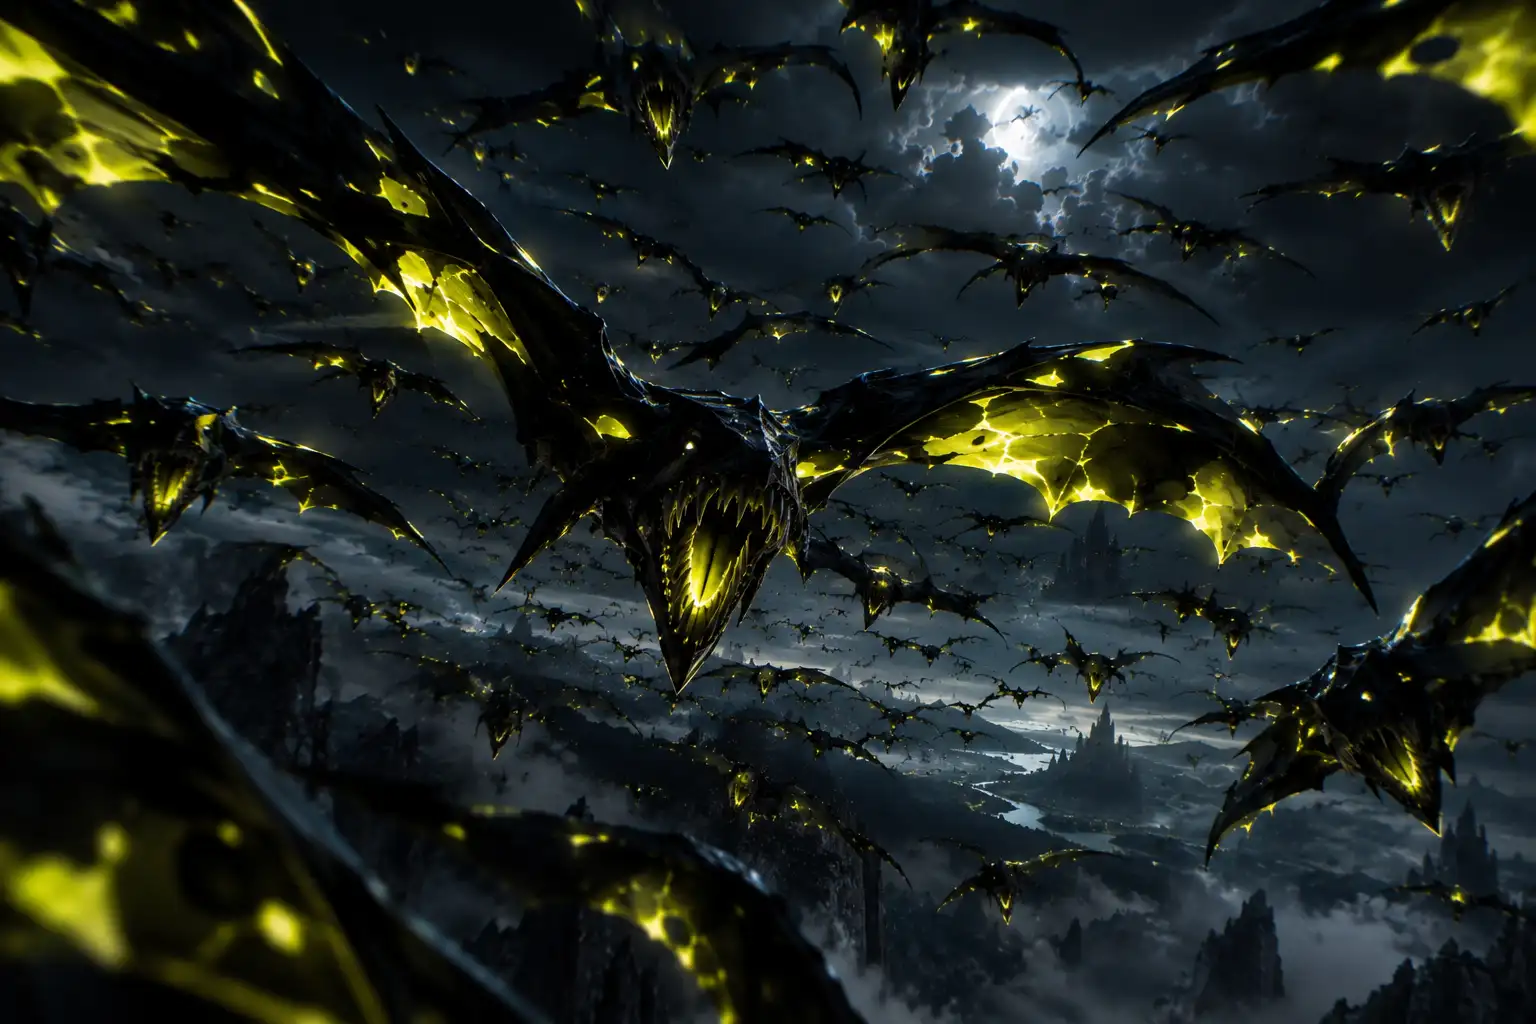
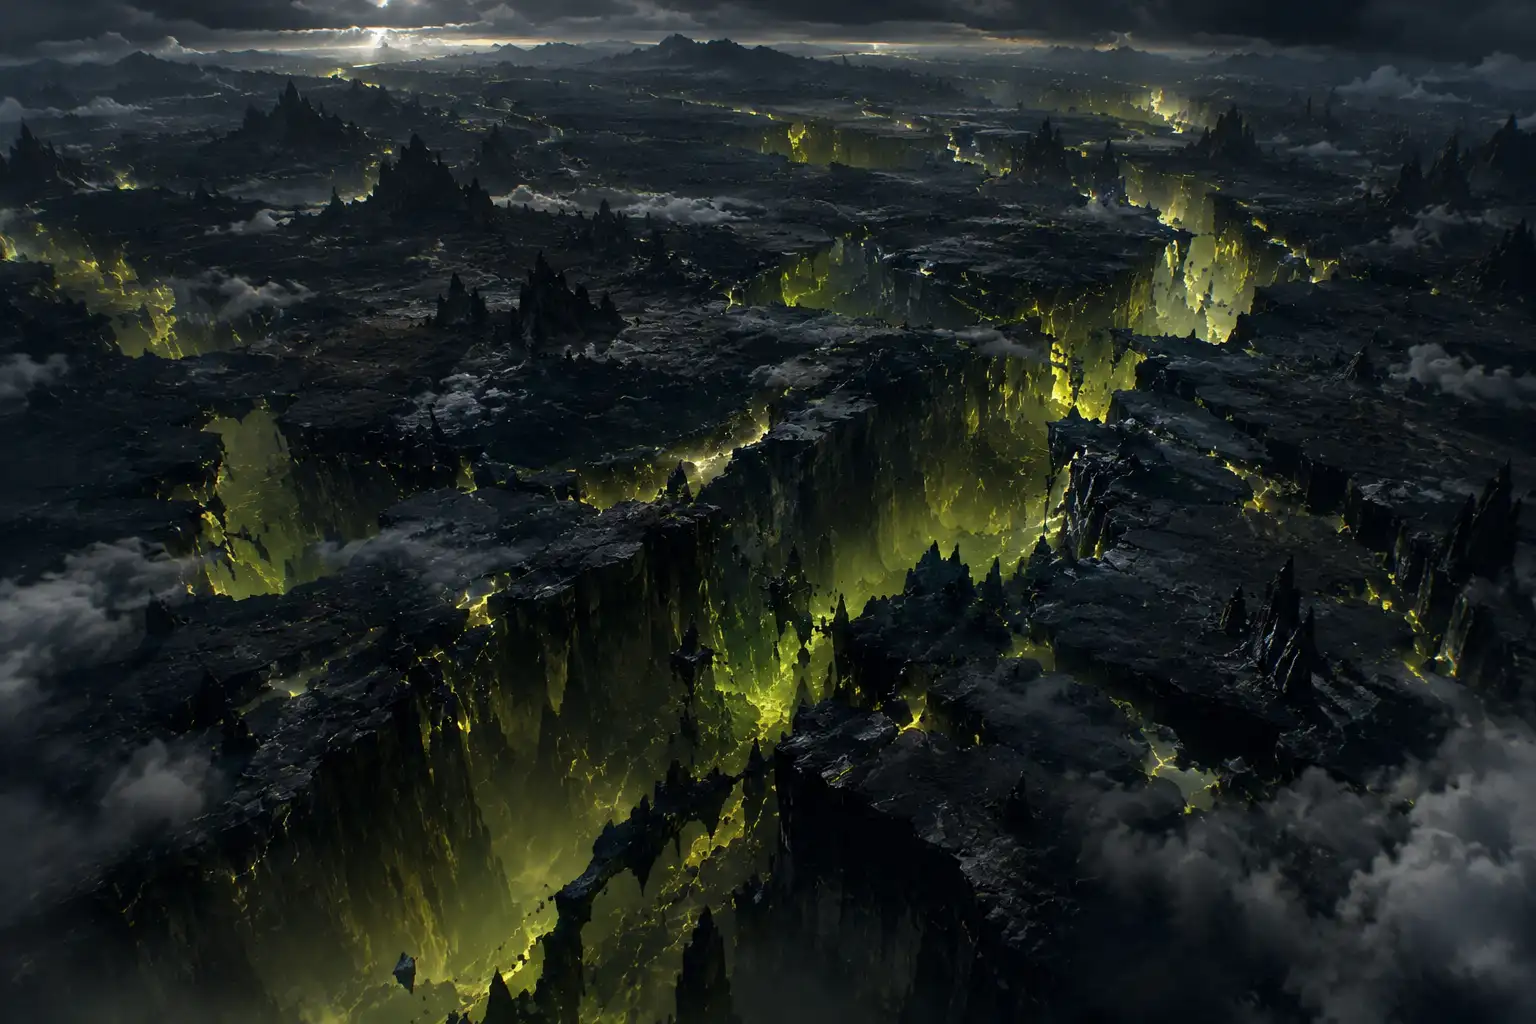
character

diff --git a/characters.html b/characters.html
@@ -240,12 +240,19 @@ const novazone = [
 
 /* DRAGON WORLD — "birthbiome" picks the biome: wind · volcano · river · ocean · ice */
 const dragonzone = [
-{images:["world1.webp","world2.webp","world3.webp","world4.webp","world5.webp","world6.webp","world7.webp","world8.webp","world9.webp","world10.webp"],name:"Dragon World",role:"Home of dragons",about:""},
-{images:["wind_dragon.webp","Wind_dragon2.webp","Wind_baby.webp"],name:"Wind Dragon",about:"",power:"splash wind to attack",birthbiome:"wind biome"},
-{images:["volcanic_dragon.webp","Volcanic_dragon2.webp"],name:"Volcanic Dragon",role:"Guardians of Dragon World",about:"",power:"splash lavafire to attack",birthbiome:"volcano"},
-{images:["River_dragon.webp","River_dragon2.webp","River_baby.webp"],name:"River or water Dragon",about:"",power:"splash water as jet stream",birthbiome:"river"},
-{images:["deepsea_dragon.webp","deepsea_dragon2.png"],name:"Deepsea dragons",role:"Guardians of Dragon world",about:"",power:"splash enormous amount of water to attack",birthbiome:"ocean"},
-{images:["ice_dragon.webp","ice_baby.webp"],name:"Ice Dragon",about:"",power:"splash ice to attack",birthbiome:"ice biome"}
+{images:["world1.webp","world2.webp","world3.webp","world4.webp","world5.webp","world6.webp","world7.webp","world8.webp","world9.webp","phenomenon1.webp","phenomenon2.webp","world10.webp"],name:"Dragon World",role:"Home of dragons",about:`Dragon World is a mysterious realm filled with diverse biomes, unique dragon species, and extraordinary powers. From frozen landscapes inhabited by ice dragons to oceans guarded by ancient dragons, every region holds its own wonders. With magical environments, powerful guardians, and countless dragons to discover, Dragon World is a place where nature and fantasy exist together.`},
+{images:["wind_dragon.webp","Wind_dragon2.webp","Wind_baby.webp"],name:"Wind Dragon",about:`Wind Dragons originate from the Wind Biome in Dragon World, a region associated with wind and the open skies. They possess the power to control wind, allowing them to generate powerful air currents and push back their enemies. Their unique abilities distinguish them from other dragon species.`,power:"splash wind to attack",birthbiome:"wind biome"},
+{images:["volcanic_dragon.webp","Volcanic_dragon2.webp"],name:"Volcanic Dragon",role:"Guardians of Dragon World",about:`Volcanic Dragons live inside a massive volcanoes in Dragon World. They possess immense power, making them one of the strongest dragon species in the world. They serve as ancient guardians of Dragon World, protecting it with their extraordinary strength.`,power:"splash lavafire to attack",birthbiome:"volcano"},
+{images:["River_dragon.webp","River_dragon2.webp","River_baby.webp"],name:"River or water Dragon",about:`River Dragons originate from the river biomes of Dragon World and possess the power to control water. They attack by releasing powerful jet streams of water, using continuous streams rather than sharp, concentrated shots. Their water-based abilities make them well suited to combat near rivers.`,power:"splash water as jet stream",birthbiome:"river"},
+{images:["deepsea_dragon.webp","deepsea_dragon2.png"],name:"Deepsea dragons",role:"Guardians of Dragon world",about:`Deep Sea Dragons live in the deepest parts of the oceans in Dragon World. They possess the power to control water and can unleash enormous splashes of water with tremendous force. They are ancient guardians of Dragon World, possessing immense power and wisdom.`,power:"splash enormous amount of water to attack",birthbiome:"ocean"},
+{images:["ice_dragon.webp","ice_baby.webp"],name:"Ice Dragon",about:`Ice Dragons originate from the ice biomes of Dragon World. They possess the power to control ice, allowing them to unleash powerful ice-based attacks. They are a unique dragon species adapted to the freezing environments of their homeland.`,power:"splash ice to attack",birthbiome:"ice biome"},
+{images:["land_dragon.webp","land_dragon2.webp","land_dragon3.webp","land_baby.webp"],name:"Land Dragon",about:`Land Dragons originate from the land regions of Dragon World. Unlike other dragon species, they do not possess pecial elemental powers. They help peoples by carrying them and providing convenient transportation between different places.`,birthbiome:"land regions"},
+{images:["voidex.webp","voidex_1.webp","voidex_2.webp","voidex_3.webp","voidex_4.webp"],name:"Voidex",role:"Dragon eaters",about:`Voidex are dangerous, bat-like creatures that originate from the underworld of Dragon World. They prey on dragons and attack other inhabitants, threatening the world's safety. They possess the ability to fly and use magical powers to overwhelm their enemies.`,power:"magical barriers",birthbiome:"Underworld"},
+{images:["windbangle.webp"],name:"Wind Bangle",role:"Magical artifact",about:`The Wind Bangle is a mysterious magical artifact that grants its wearer the power to control and manipulate wind. It allows the wearer to harness the force of wind for various purposes.`,power:"wind control"},
+{images:["desert_dragon.webp","desert_dragon2.webp","desert_baby.webp"],name:"Desert Dragon",about:`Desert Dragons originate from the desert biomes of Dragon World and possess the power to unleash a sand-like substance from their mouths. They attack by splashing this substance toward their targets. Their abilities reflect the sandy environments they inhabit.`,power:"sandlike substance",birthbiome:"desert"},
+{img:"icy.webp",name:"Icy",about:`Icy is an Ice Dragon from the frozen biomes of Dragon World. He possesses the power to control ice and is known for his exceptional speed, making him faster than other dragons. His calm nature and remarkable abilities make him stand out among the dragons of Dragon World.`,power:"ice manipulation",birthbiome:"ice biome"},
+{img:"frosty.webp",name:"Frosty",about:`Frosty is an Ice Dragon from the frozen biomes of Dragon World. She possesses the power to control ice and is Icy's partner. Together, they have two children, Nivvi and Eivvi.`,power:"ice manipulation",birthbiome:"ice biome"},
+{img:"Nivvi_and_Eivvi.webp",name:"Nivvi and Eivvi",about:`Nivvi and Eivvi are young Ice Dragons in Dragon World. They are the sons of Icy and Frosty. As children, they have not yet developed their own powers.`}
 ];
 
 /* ═══ SETTINGS ═══════════════════════════════════════════════════════
